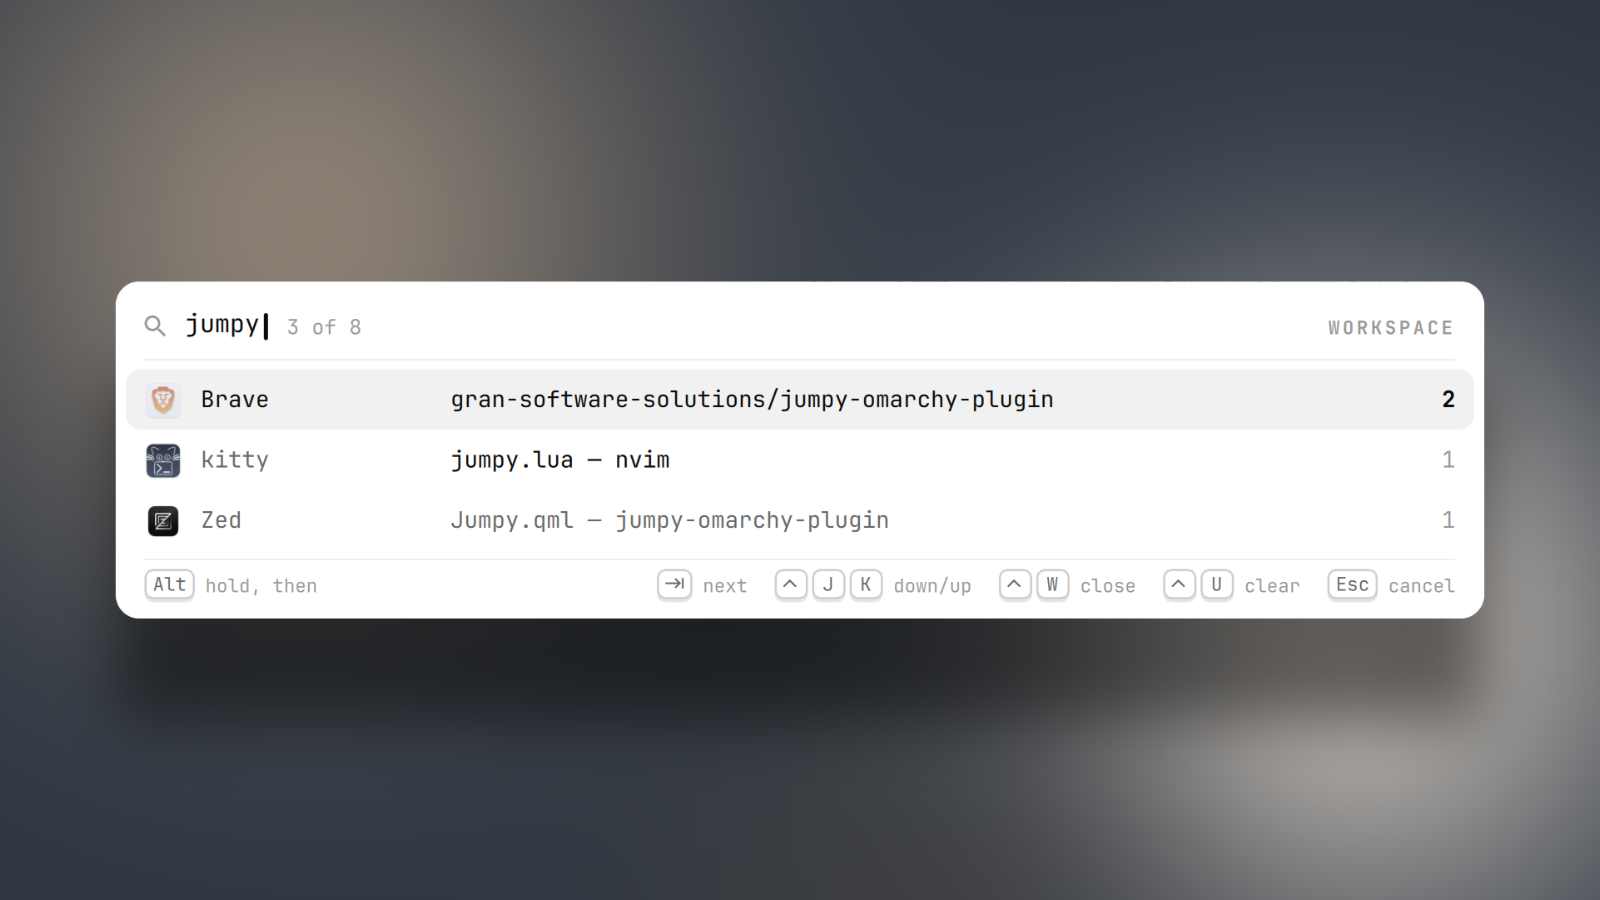
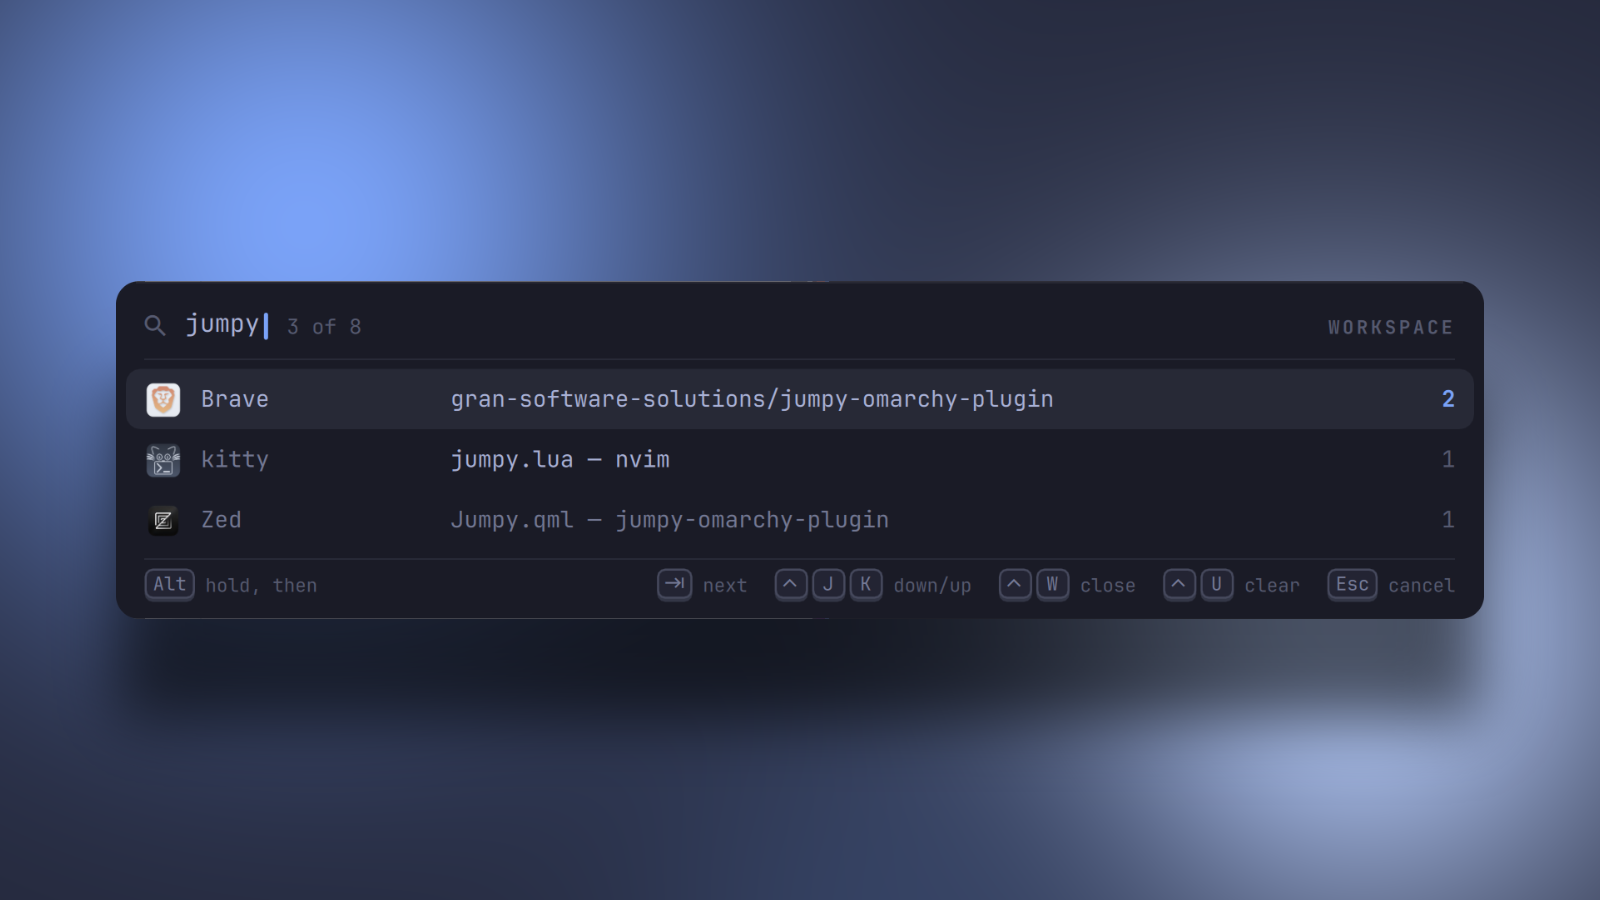
Jumpy: dark screenshots
Tokyo Night versions of the list and the search, framed like the light
ones. preview.png is now the dark list, for the marketplace page; the
README picks dark or light to match the reader's GitHub theme.

diff --git a/README.md b/README.md
@@ -9,9 +9,12 @@ Tap to flip back. Hold to see every window. Type to find one.
 
 <br>
 
-<img src="preview.png" alt="Jumpy's window list: eight windows most recent first, each with its app icon and name, title and workspace number, the second row selected, and key hints in the footer" width="100%">
+<picture>
+  <source media="(prefers-color-scheme: dark)" srcset="preview.png">
+  <img src="preview-light.png" alt="Jumpy's window list: eight windows most recent first, each with its app icon and name, title and workspace number, the second row selected, and key hints in the footer" width="100%">
+</picture>
 
-<sub>Follows the active Omarchy theme and font.</sub>
+<sub>Follows the active Omarchy theme and font. Shown in Tokyo Night or Snow, matching your GitHub theme.</sub>
 
 </div>
 
@@ -44,7 +47,10 @@ After removing, delete the `dofile` line and run `hyprctl reload`.
 
 ## Keys
 
-<img src="preview-search.png" alt="Jumpy filtering by the typed word jumpy: three of eight windows match, the Brave tab of the jumpy repository is selected, with a kitty and a Zed window below it" width="100%">
+<picture>
+  <source media="(prefers-color-scheme: dark)" srcset="preview-search.png">
+  <img src="preview-search-light.png" alt="Jumpy filtering by the typed word jumpy: three of eight windows match, the Brave tab of the jumpy repository is selected, with a kitty and a Zed window below it" width="100%">
+</picture>
 
 Hold `Alt` throughout. Releasing it switches.
 
